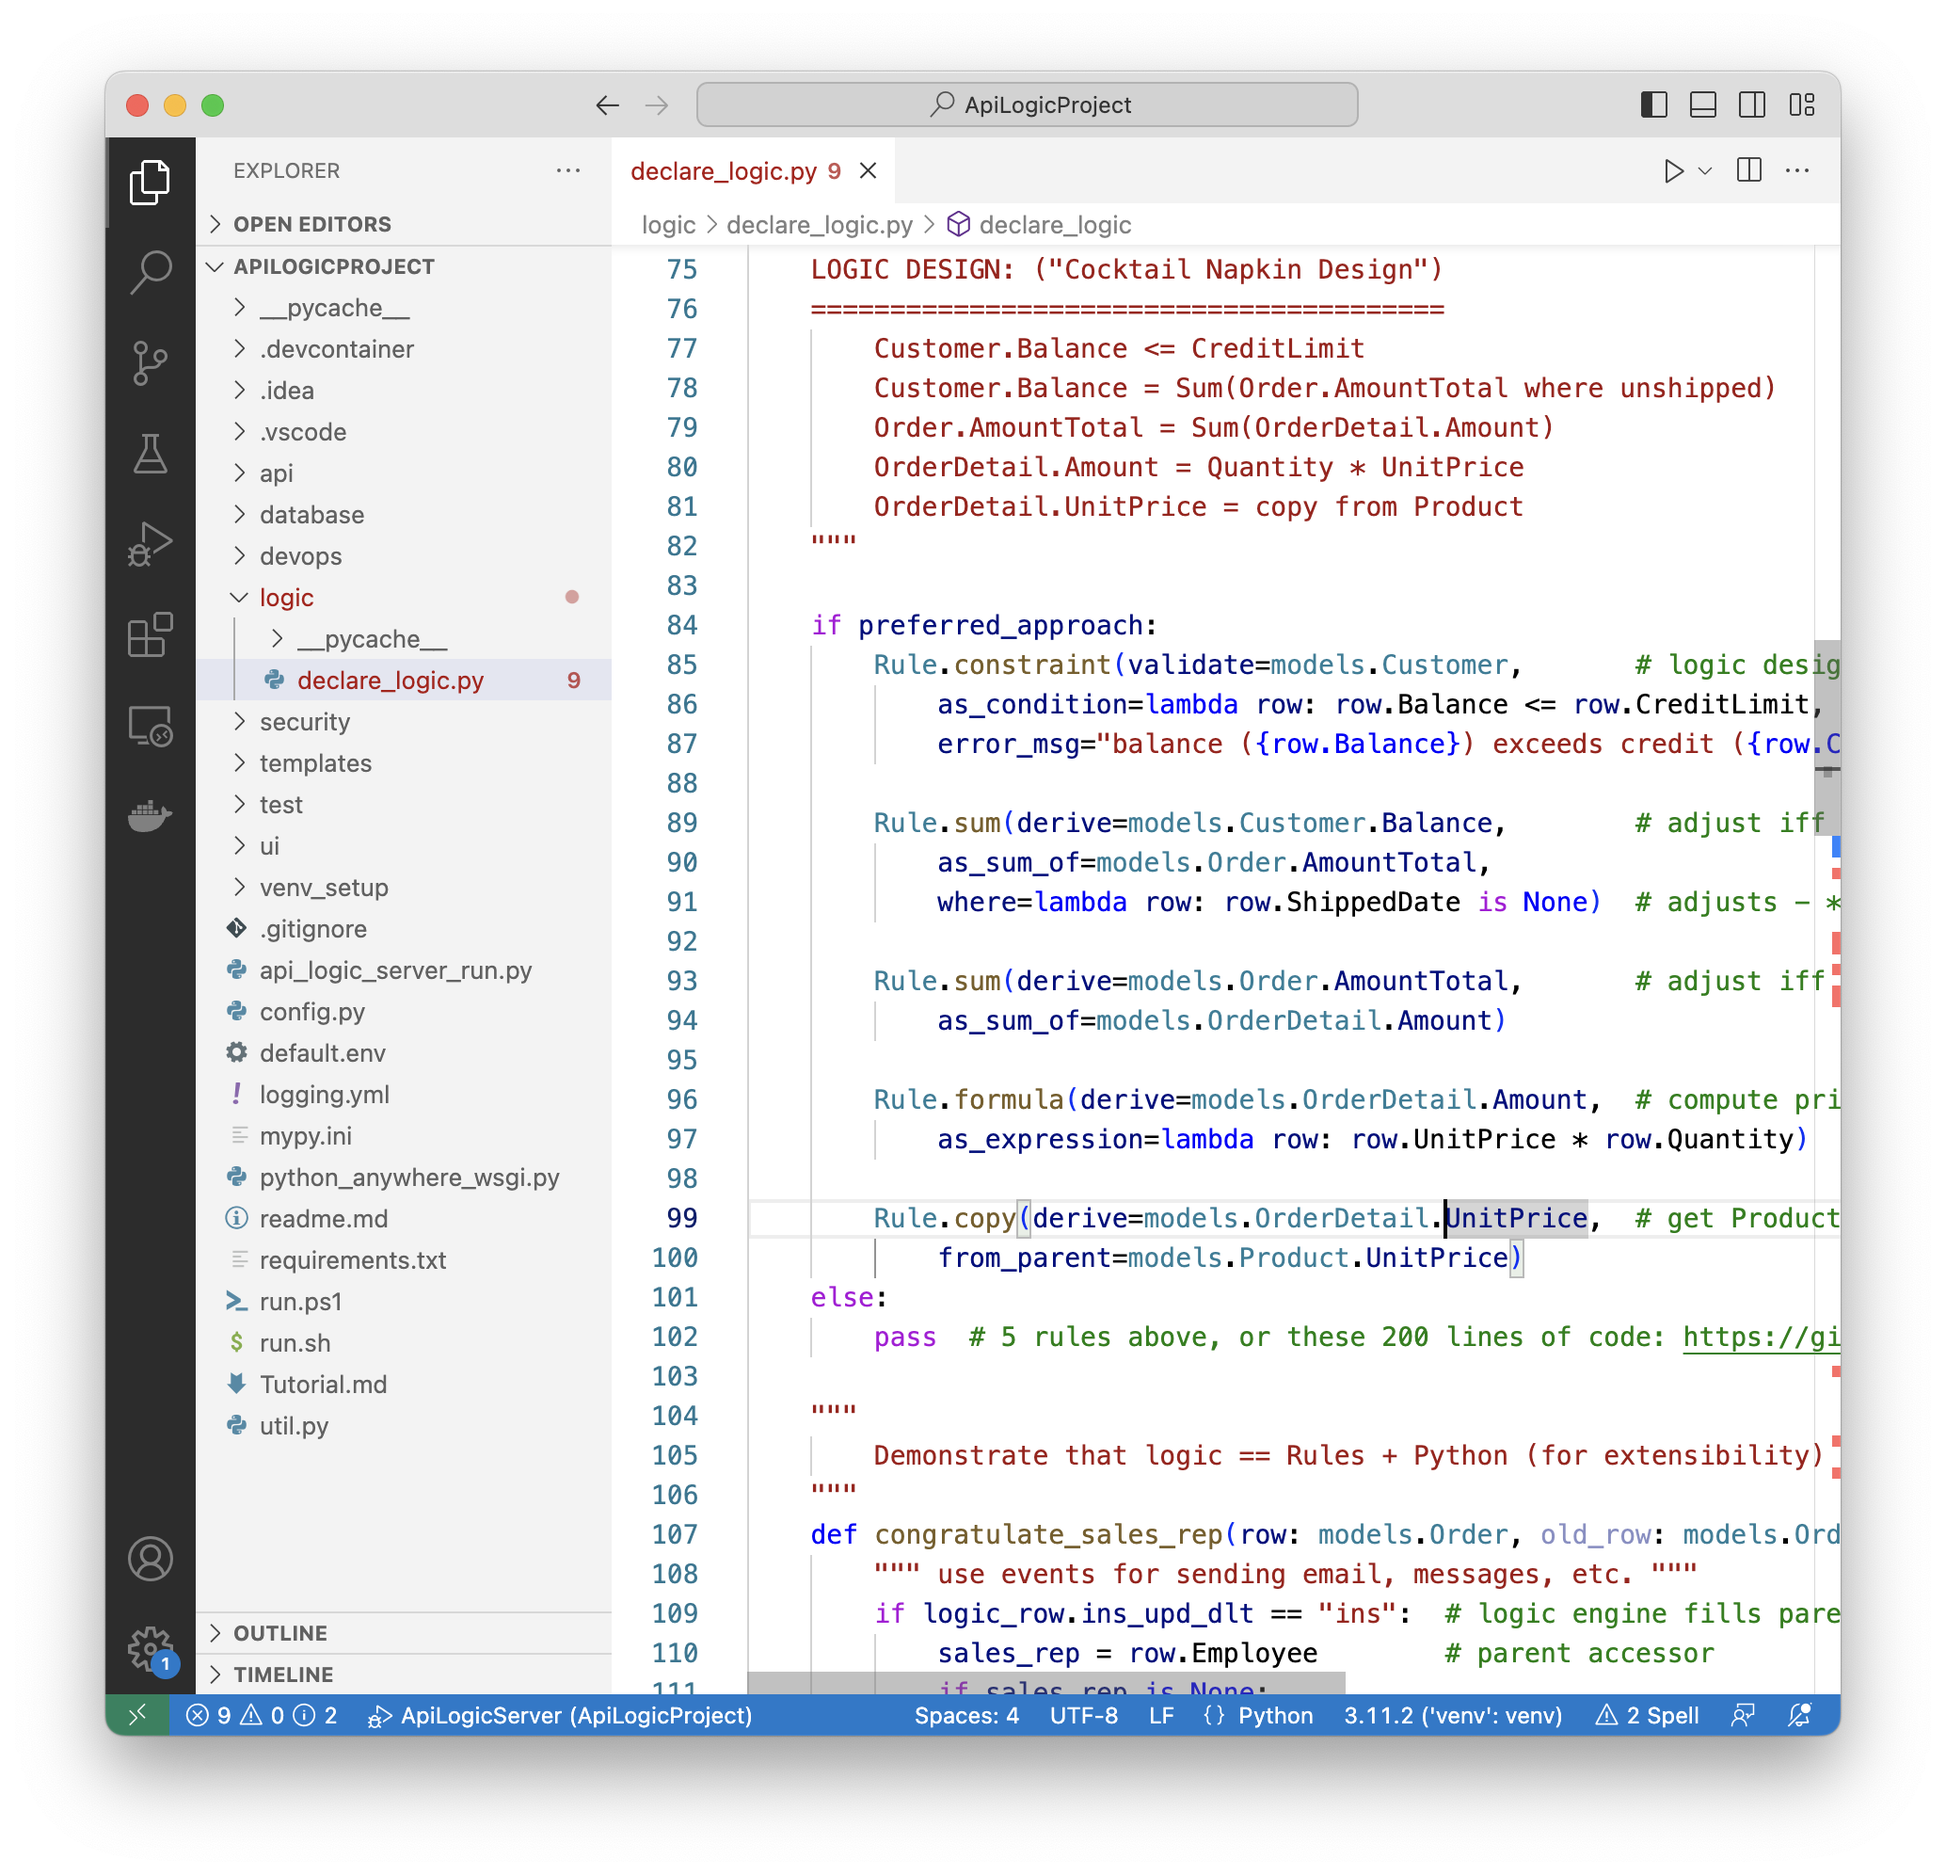
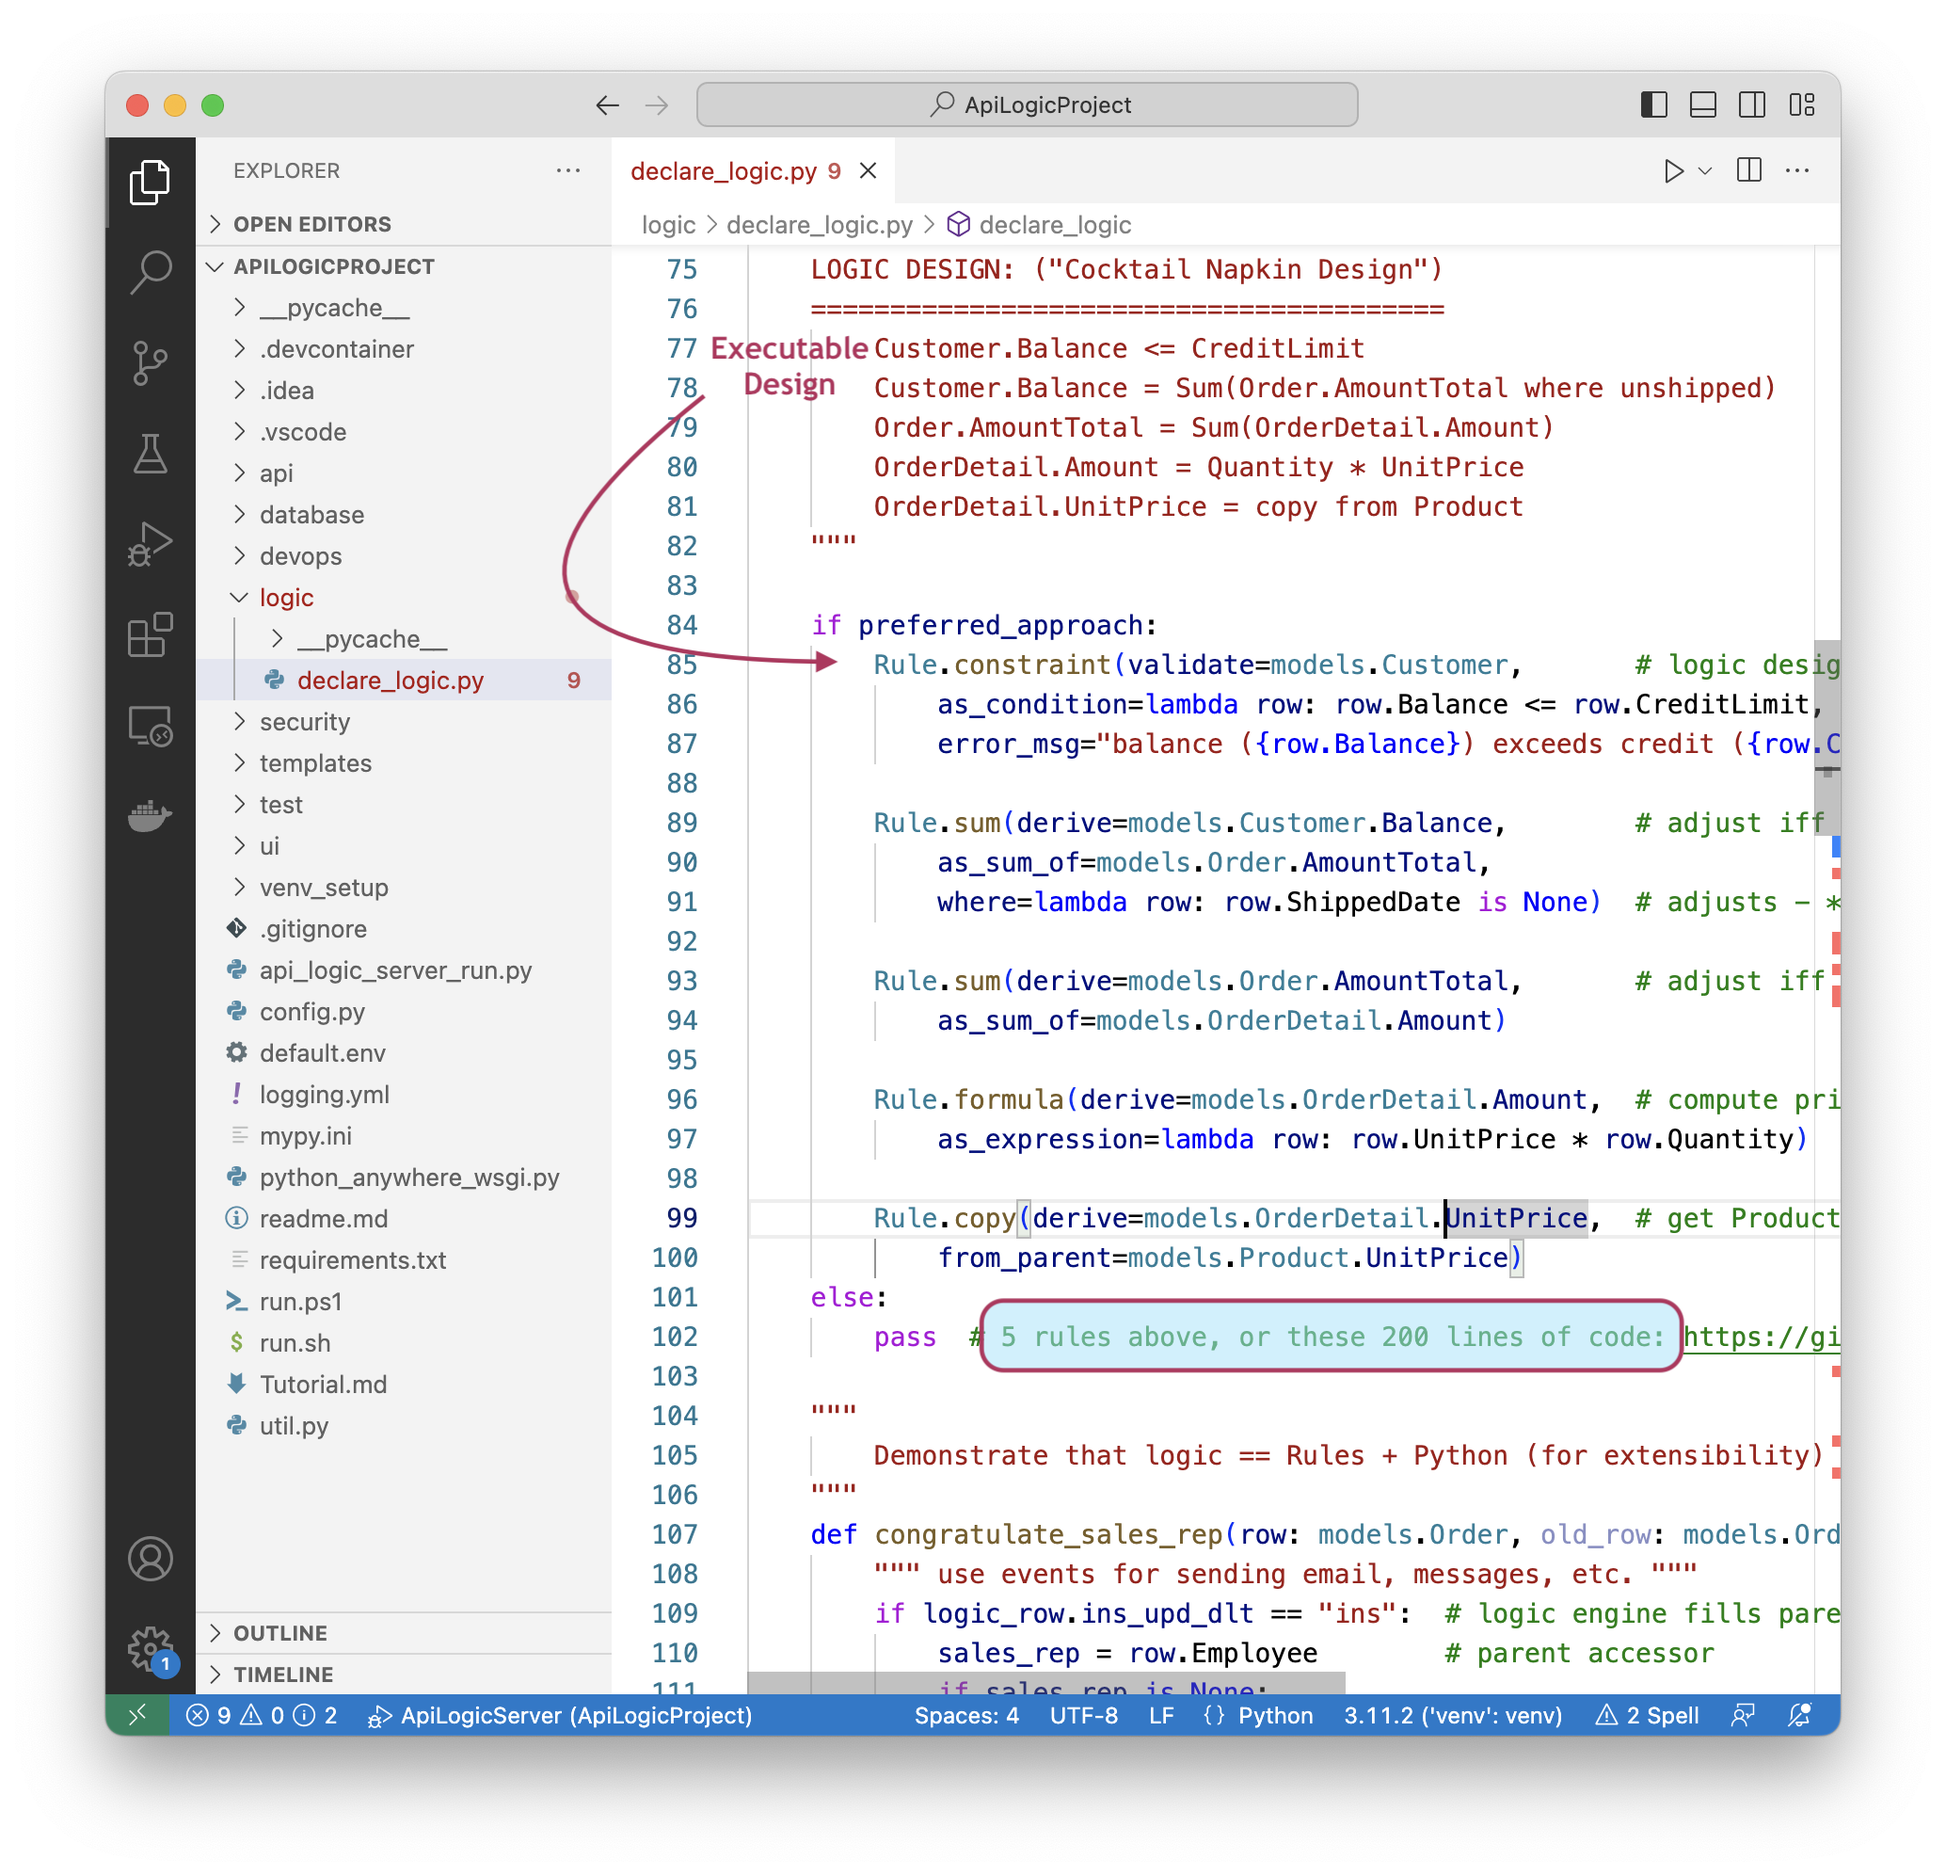
minor edits

Changed region(s): [[0.4952, 0.6847, 0.8665, 0.747], [0.3714, 0.1867, 0.4333, 0.2179], [0.4023, 0.3424, 0.4333, 0.3735]]

diff --git a/docs/index.md b/docs/index.md
@@ -153,7 +153,7 @@ Here is a quick screen-shot demo of the basic process:
 
     <details markdown>
 
-    <summary>Show Me - use a`safrsJABase` class to create an endpoint shown in the swagger</summary>
+    <summary>Use a `safrsJABase` class to create an endpoint shown in the swagger</summary>
 
     &nbsp;
 
@@ -165,7 +165,7 @@ Here is a quick screen-shot demo of the basic process:
 
 === "3. Declarative Logic &nbsp;&nbsp; :trophy:"
 
-    Declare multi-table constraint/derivation logic using [Python and your IDE](../Tech-DSL){:target="_blank" rel="noopener"}.  The 5 rules below are *declarative*, representing the same logic as 200 lines of procedural code:
+    Declare multi-table constraint/derivation logic using [Python and your IDE](../Tech-DSL){:target="_blank" rel="noopener"}.  The 5 spreadsheet-like rules below are [*declarative*](Logic-Why){:target="_blank" rel="noopener"}, representing the same logic as 200 lines of procedural code:
 
     ![Declarative Logic](images/nutshell/declare-logic.png)
 

diff --git a/docs/Logic-Why.md b/docs/Logic-Why.md
@@ -45,7 +45,7 @@ Rules are a **declarative approach** that automates remarkable amounts of backen
 | **Ordering** | Execution ordered by automatic dependency analysis | **Maintenance** - eliminates code analysis for inserting new code |
 | **Optimization** | System prunes rules, optimizes SQL | Reduces effort for **scalability** |
 
-Rules operate by listening to SQLAlchemy events.  Like a spreadsheet, rules __watch__ for changes, __react__ by automatically executing relevant rules, which can __chain__ to activate other rules.  You can [visualize the watch/react/chain process here](https://valhuber.github.io/ApiLogicServer/Logic-Operation/#watch-react-chain).
+Rules operate by listening to SQLAlchemy events.  Like a spreadsheet, rules __watch__ for changes, __react__ by automatically executing relevant rules, which can __chain__ to activate other rules.  You can [visualize the watch/react/chain process here](../Logic-Operation/#watch-react-chain).
 
 
 ### Rules: Executable Design
